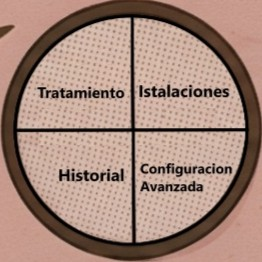
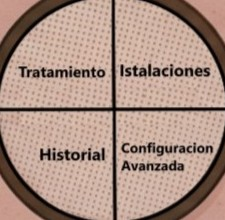
ParteVisual1.3
se añade un fondo para los botones configuracion y turno y los botones

diff --git a/TrabajoFinalGrupo8/src/Vista/menu.java b/TrabajoFinalGrupo8/src/Vista/menu.java
@@ -179,7 +179,9 @@ import javax.sound.sampled.AudioInputStream;
 import javax.sound.sampled.AudioSystem;
 import javax.sound.sampled.Clip;
 import javax.swing.JButton;
+import javax.swing.JDesktopPane;
 import javax.swing.JInternalFrame;
+import javax.swing.JLayeredPane;
 import javax.swing.JOptionPane;
 import javax.swing.JPanel;
 import javax.swing.SwingUtilities;
@@ -216,9 +218,23 @@ public class menu extends javax.swing.JFrame {
     private JButton botonCerrarTurnos;
 
     // paneles
-    private PanelConFondo VistaTurnos = new PanelConFondo("/Vista/Disenio/turno.jpg");
+    private PanelConFondo VistaTurnos = new PanelConFondo("/Vista/Disenio/turnodos.jpg");
     private PanelConFondo VistaConfiguracion = new PanelConFondo("/Vista/Disenio/Configuracion.jpg");
+    
+    //botones dentro de paneles
+    //turnos
+    private JButton agregar;
+    private JButton verturnos;
+    private JButton eliminar;
+    private JButton turnosVacios;
+    
+    //configuracion
+    private JButton tratamientos;
+    private JButton instalaciones;
+    private JButton historial;
+    private JButton configuracionAvanzada;
 
+    
     // constructor
     public menu() {
         initComponents();
@@ -228,6 +244,7 @@ public class menu extends javax.swing.JFrame {
         reproducirMusicaFondo();
     }
 
+    
     
     @SuppressWarnings("unchecked")
     private void initComponents() {
@@ -324,12 +341,29 @@ public class menu extends javax.swing.JFrame {
 
         jDesktopPane1.revalidate();
         jDesktopPane1.repaint();
+        
+        //botones dentro de los paneles
+        
+        //turno
+        
+        agregar = crearBotonInvisible(110, 0, 110, 110, this::agregar , "agregar");
+        verturnos = crearBotonInvisible(110, 110, 110,110, this::agregar , "agregar");
+        eliminar = crearBotonInvisible(0, 110, 110, 110, this::agregar , "agregar");
+        turnosVacios = crearBotonInvisible(0, 0, 110, 110, this::agregar , "agregar");
+        
+        //configuracion
+        tratamientos = crearBotonInvisible(110, 0, 110, 110, this::agregar , "agregar");
+        instalaciones = crearBotonInvisible(110, 110, 110,110, this::agregar , "agregar");
+        historial = crearBotonInvisible(0, 110, 110, 110, this::agregar , "agregar");
+        configuracionAvanzada = crearBotonInvisible(0, 0, 110, 110, this::agregar , "agregar");        
+        
+        
     }
 
     private JButton crearBotonInvisible(int x, int y, int w, int h, Runnable accion, String tooltip) {
         JButton boton = new JButton();
         boton.setBounds(x, y, w, h);
-        boton.setOpaque(false);
+        boton.setOpaque(true);
         boton.setContentAreaFilled(false);
         boton.setBorderPainted(true);
         boton.setFocusPainted(false);
@@ -349,29 +383,75 @@ public class menu extends javax.swing.JFrame {
         prepararInternalFrame(masajistas);
     }
 
-    private void abrirTurnos() {
-        mostrarPanelSobreBoton(VistaTurnos, botonTurnos);
-    }
+    
+        //--------------turnos--------------
+        private void abrirTurnos() {
+            // se pone falso para que el panel pueda abrirse (si estan en la misma ubicacion el panel y el boton no deja)
+            botonTurnos.setEnabled(false);
+            //set layer es nesesario importar, se usa para controlar la importancia de los paneles, si queres que se muestre uno por sobre otro usas set layer
+            jDesktopPane1.setLayer(VistaTurnos, JLayeredPane.PALETTE_LAYER);
+            //añadir el panel turnos a la vista del desktop frame
 
-    private void abrirConfiguracion() {
-        mostrarPanelSobreBoton(VistaConfiguracion, botonConfiguracion);
-    }
+            // ?solo lo agregamos si todavía no está dentro del DesktopPane (evita duplicación o deformación)
+            if (VistaTurnos.getParent() == null) {
+                jDesktopPane1.add(VistaTurnos);
 
-    private void cerrarConfiguracion() {
-        VistaConfiguracion.setVisible(false);
-        jDesktopPane1.remove(VistaConfiguracion);
-        jDesktopPane1.repaint();
-    }
+                //añadir botones (solo una vez)
+                VistaTurnos.add(agregar);  
+                VistaTurnos.add(verturnos);
+                VistaTurnos.add(eliminar);
+                VistaTurnos.add(turnosVacios);
+            }
 
-    private void cerrarTurnos() {
-        VistaTurnos.setVisible(false);
-        jDesktopPane1.remove(VistaTurnos);
-        jDesktopPane1.repaint();
-    }
+            //hacer visible cada vez que se da click
+            VistaTurnos.setVisible(true);
+        }
+
+        //---------------configuracion
+        private void abrirConfiguracion() {
+
+            botonConfiguracion.setEnabled(false);
+            botonConfiguracion.setVisible(false);
+            jDesktopPane1.setLayer(VistaConfiguracion, JLayeredPane.PALETTE_LAYER);
+
+            // 
+            if (VistaConfiguracion.getParent() == null) {
+                jDesktopPane1.add(VistaConfiguracion);
+
+                //añadir botones
+                VistaConfiguracion.add(tratamientos);
+                VistaConfiguracion.add(instalaciones);
+                VistaConfiguracion.add(historial);
+                VistaConfiguracion.add(configuracionAvanzada);
+            }
+
+            VistaConfiguracion.setVisible(true);
+        }
+
+        private void cerrarConfiguracion() {
+            VistaConfiguracion.setVisible(false);
+            jDesktopPane1.repaint();
+            botonConfiguracion.setEnabled(true);
+            botonConfiguracion.setVisible(true);
+        }
+
+        private void cerrarTurnos() {
+            VistaTurnos.setVisible(false);
+            jDesktopPane1.repaint();
+            botonTurnos.setEnabled(true);
+        }
+
 
     private void mostrarAyuda() {
         JOptionPane.showMessageDialog(this, "Centro de ayuda del Spa Entre Dedos 💆");
     }
+    
+    // botones internos de conf y turn
+    private void agregar(){
+    AgregarTurno agregar = new AgregarTurno();
+    agregar.setVisible(true);
+    }
+    
 
     
     private void prepararInternalFrame(JInternalFrame frame) {
@@ -392,36 +472,6 @@ public class menu extends javax.swing.JFrame {
         }
     }
 
-  
-    private void mostrarPanelSobreBoton(PanelConFondo panel, JButton botonBase) {
-        try {
-            if (botonBase == null) return;
-
-            
-            jDesktopPane1.remove(panel);
-
-            
-            panel.setSize(botonBase.getWidth(), botonBase.getHeight());
-
-            
-            Point punto = SwingUtilities.convertPoint(botonBase.getParent(), botonBase.getLocation(), jDesktopPane1);
-            int x = punto.x;
-            int y = punto.y - panel.getHeight() - 10;
-
-            if (y < 0) y = punto.y + botonBase.getHeight() + 10; 
-
-            panel.setLocation(x, y);
-            jDesktopPane1.add(panel, javax.swing.JLayeredPane.POPUP_LAYER);
-            panel.setVisible(true);
-            panel.repaint();
-            jDesktopPane1.revalidate();
-            jDesktopPane1.repaint();
-
-        } catch (Exception e) {
-            e.printStackTrace();
-        }
-    }
-
     // musica
     private void reproducirMusicaFondo() {
         try {
@@ -435,7 +485,7 @@ public class menu extends javax.swing.JFrame {
             clipMusica.open(audioInput);
             clipMusica.loop(Clip.LOOP_CONTINUOUSLY);
             clipMusica.start();
-            System.out.println("🎵 Música de fondo iniciada...");
+            System.out.println(" Música de fondo ");
         } catch (Exception e) {
             e.printStackTrace();
         }

diff --git a/TrabajoFinalGrupo8/src/Vista/AgregarTurno.java b/TrabajoFinalGrupo8/src/Vista/AgregarTurno.java
@@ -1,6 +1,6 @@
 /*
  * Click nbfs://nbhost/SystemFileSystem/Templates/Licenses/license-default.txt to change this license
- * Click nbfs://nbhost/SystemFileSystem/Templates/GUIForms/JInternalFrame.java to edit this template
+ * Click nbfs://nbhost/SystemFileSystem/Templates/GUIForms/JPanel.java to edit this template
  */
 package Vista;
 
@@ -8,23 +8,13 @@ package Vista;
  *
  * @author Ema
  */
-public class VistaConfiguracion extends javax.swing.JInternalFrame {
+public class AgregarTurno extends javax.swing.JPanel {
 
     /**
-     * Creates new form VistaConfiguracion
+     * Creates new form AgregarTurno
      */
-    public VistaConfiguracion() {
-    initComponents();
-    this.setSize(800, 600);
-    }
-
-    public void centrarEnDesktop() {
-    javax.swing.JDesktopPane desktopPane = this.getDesktopPane();
-    if (desktopPane != null) {
-        int x = (desktopPane.getWidth() - this.getWidth()) / 2;
-        int y = (desktopPane.getHeight() - this.getHeight()) / 2;
-        this.setLocation(x, y);
-    }
+    public AgregarTurno() {
+        initComponents();
     }
 
     /**
@@ -36,18 +26,16 @@ public class VistaConfiguracion extends javax.swing.JInternalFrame {
     // <editor-fold defaultstate="collapsed" desc="Generated Code">//GEN-BEGIN:initComponents
     private void initComponents() {
 
-        javax.swing.GroupLayout layout = new javax.swing.GroupLayout(getContentPane());
-        getContentPane().setLayout(layout);
+        javax.swing.GroupLayout layout = new javax.swing.GroupLayout(this);
+        this.setLayout(layout);
         layout.setHorizontalGroup(
             layout.createParallelGroup(javax.swing.GroupLayout.Alignment.LEADING)
-            .addGap(0, 583, Short.MAX_VALUE)
+            .addGap(0, 400, Short.MAX_VALUE)
         );
         layout.setVerticalGroup(
             layout.createParallelGroup(javax.swing.GroupLayout.Alignment.LEADING)
-            .addGap(0, 405, Short.MAX_VALUE)
+            .addGap(0, 300, Short.MAX_VALUE)
         );
-
-        pack();
     }// </editor-fold>//GEN-END:initComponents
 
 

diff --git a/TrabajoFinalGrupo8/src/Vista/PanelConFondo.java b/TrabajoFinalGrupo8/src/Vista/PanelConFondo.java
@@ -14,10 +14,15 @@ public class PanelConFondo extends JPanel {
             System.err.println("Error al cargar imagen de fondo: " + e.getMessage());
         }
         
-        if(url == "/Vista/Disenio/Turno.png"){
+        if(url == "/Vista/Disenio/turnodos.jpg"){
             this.setSize(200, 200);
-            this.setBounds(825, 100, 225, 220);
+            this.setBounds(531, 100, 225, 220);
         }
+        if(url == "/Vista/Disenio/Configuracion.jpg"){
+            this.setSize(180, 180);
+            this.setBounds(826, 100, 225, 220);
+        }
+         this.setLayout(null);
     }
 
     @Override
